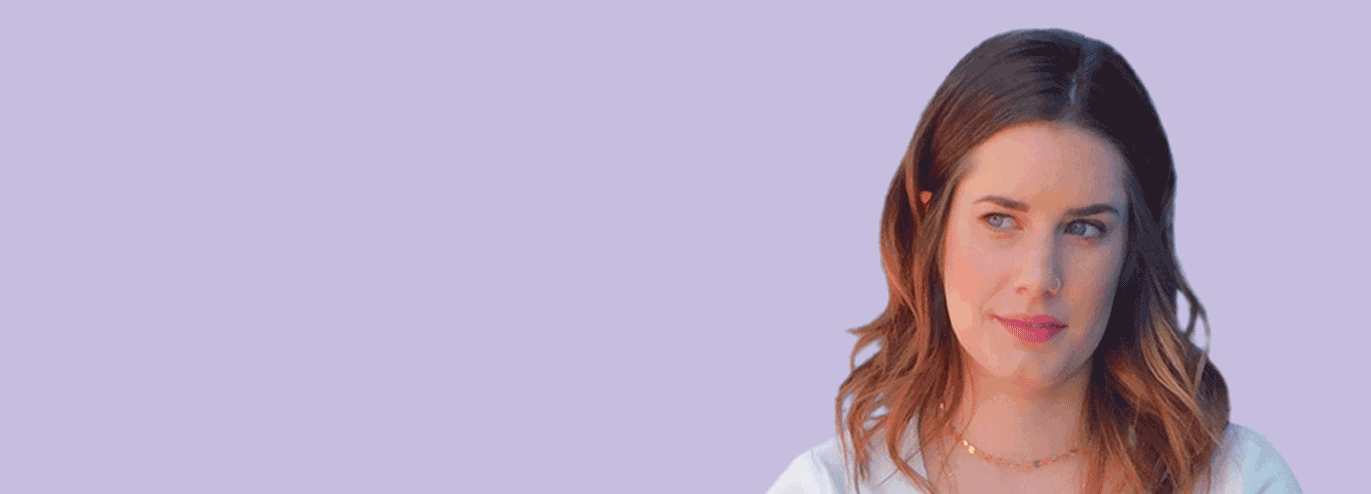
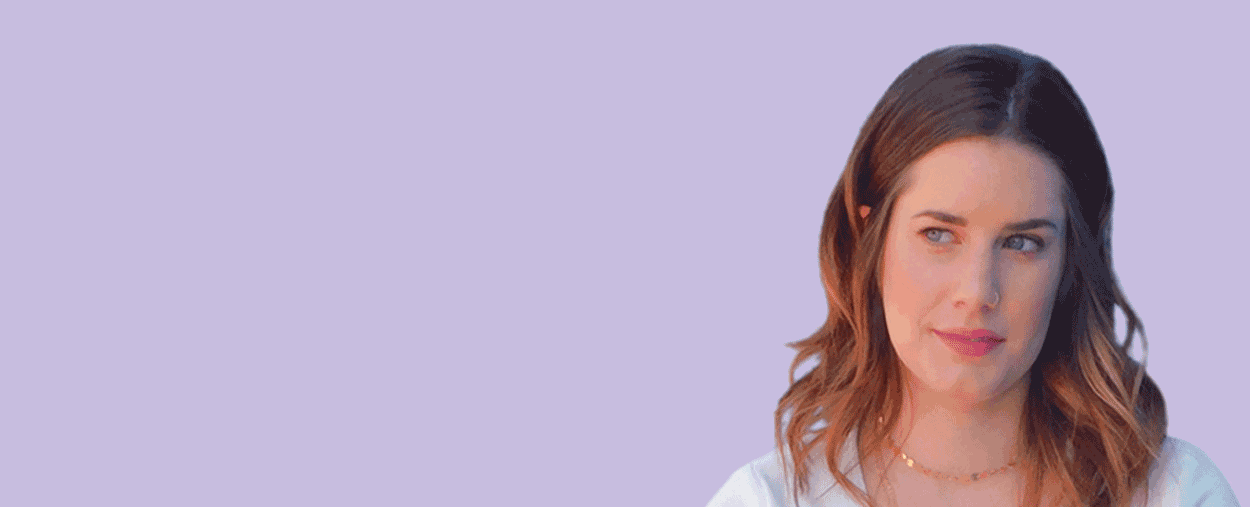
fixed navigation

Changed region(s): [[0.5616, 0.0304, 0.9984, 1.0]]

diff --git a/index.html b/index.html
@@ -44,28 +44,32 @@
                 <h2>PORTFOLIO</h2>
                     <div class="container">
                         <div class="row">
-                          <div class="col-lg-3 col-sm-12">
+                          <div class="col-lg-6 col-sm-12">
                             <href"#"><img src="images/grid_01.jpg"></href>
                           </div>
-                          <div class="col-lg-3 col-sm-12">
+                          <div class="col-lg-6 col-sm-12">
                             <href"#"><img src="images/grid_02.jpg"></href>
                           </div>
-                          <div class="col-lg-3 col-sm-12">
+                    </div>
+                    <div class="row">
+                          <div class="col-lg-4 col-sm-12">
                             <href"#"><img src="images/grid_04.jpg"></href>
                           </div>
-                          <div class="col-lg-3 col-sm-12">
+                          <div class="col-lg-4 col-sm-12">
                             <href"#"><img src="images/grid_06.jpg"></href>
                           </div>
-                          <div class="col-lg-3 col-sm-12">
-                            <href"#"><img src="images/grid_07.jpg"></href>
-                          </div>
-                        <div class="col-lg-3 col-sm-12">
+                          <div class="col-lg-4 col-sm-12">
+                              <href"#"><img src="images/grid_07.jpg"></href>
+                         </div>
+                      </div>
+                      <div class="row">
+                        <div class="col-lg-6 col-sm-12">
+                              <href"#"><img src="images/grid_07.jpg"></href>
+                         </div>
+                        <div class="col-lg-6 col-sm-12">
                             <href"#"><img src="images/grid_03.jpg"></href>
                           </div>
-                          <div class="col-lg-3 col-sm-12">
-                            <href"#"><img src="images/grid_05.jpg"></href>
-                          </div>
-                        </div>
+                      </div>
                       </div>
                   </div>
                  </div>
@@ -73,7 +77,7 @@
         <section>
             <div class="skills">
                 <h2>SERVICES</h2>
-                <div class="skills-grid-container col-sm-12">
+                <div class="skills-grid-container">
                     <div class="card">
                             <img src="../HW-17/images/icons-03.png" class="card-img-top" alt="...">
                             <div class="card-body">
@@ -132,4 +136,8 @@
                 <a href="https://www.instagram.com/theclevercreativeco/" class="ig">Instagram</a>
             </div>
         </section>
+ <script src="https://code.jquery.com/jquery-3.4.1.slim.min.js" integrity="sha384-J6qa4849blE2+poT4WnyKhv5vZF5SrPo0iEjwBvKU7imGFAV0wwj1yYfoRSJoZ+n" crossorigin="anonymous"></script>
+<script src="https://cdn.jsdelivr.net/npm/popper.js@1.16.0/dist/umd/popper.min.js" integrity="sha384-Q6E9RHvbIyZFJoft+2mJbHaEWldlvI9IOYy5n3zV9zzTtmI3UksdQRVvoxMfooAo" crossorigin="anonymous"></script>
+<script src="https://stackpath.bootstrapcdn.com/bootstrap/4.4.1/js/bootstrap.min.js" integrity="sha384-wfSDF2E50Y2D1uUdj0O3uMBJnjuUD4Ih7YwaYd1iqfktj0Uod8GCExl3Og8ifwB6" crossorigin="anonymous"></script>
     </body>
+  </html>

diff --git a/CSS/style.css b/CSS/style.css
@@ -2,7 +2,7 @@ html {
     font-family: 'Fira Sans Condensed', sans-serif;
 }
 .bg-light {
-    background-color: white !important;
+  background-color: white !important;
 }
 .navbar-brand img {
     width:75px;
@@ -23,16 +23,6 @@ html {
 .navbar-light .navbar-nav .nav-link {
     color: black;
 }
-/*.nav {
-    display: flex;
-    width: 100%;
-    align-items: center;
-    margin-block-start: 0;
-    position: fixed;
-    top:0;
-    background-color: white;
-    opacity: 90%;
-}*/
 .logo {
     background-image: url("../images/logo.png");
     height:75px;
@@ -48,6 +38,7 @@ html {
     display: flex;
     justify-content: flex-end;
     align-items: center;
+    margin-left: auto;
 }
 .nav_links a {
     text-decoration: none;
@@ -74,15 +65,16 @@ a:hover {
     margin-block-start: 0;
 }
 .jumbotron {
-    background-color: #d8d5e9;
+    background-color: #c7bddf;
     font-family: 'Fira Sans Condensed', sans-serif;
     letter-spacing: 3px;
     height: 450px;
     background-image: url("../images/me.png");
+    background-repeat: repeat-y;
     display: flex;
     flex-direction: column;
     justify-content: center;
-    }
+}
 .display-4 {
     font-weight: 500;
     margin-left: 100px;
@@ -138,6 +130,10 @@ a:hover {
     margin-bottom:50px;
     margin-right:180px;
     margin-left:180px;
+}
+.portfolio_content img {
+    width: 100%;
+    height: auto;
 }
 .portfolio_content h2{
     font-size: 16px;
@@ -200,9 +196,13 @@ button {
 }
 .skills-grid-container {
     display: grid;
-    grid-template-columns: 1fr 1fr 1fr;
+    grid-template-columns: 1fr 1fr;
     align-content: center;
     flex-direction: column;
+}
+.col img{
+    width: 100%;
+    height: auto;
 }
 .skills h2 {
     font-size: 16px;
@@ -332,3 +332,22 @@ button:hover {
     text-decoration: none;
     color: white;
 }
+@media only screen and (max-width: 700px) {
+    #navbarNavDropdown {
+        background-color:#86d1d2;
+        padding: 20px;
+    }
+    .blockquote {
+        margin-right: 30px;
+        margin-left: 30px;
+        margin-top: 20px;
+        margin-bottom:20px;
+        font-size: 14px;
+    }
+    .portfolio_content .row {
+        padding: 0 !important;
+    }
+    .portfolio_content .col-sm-12 {
+        padding-bottom: 10px;
+    }
+  }
